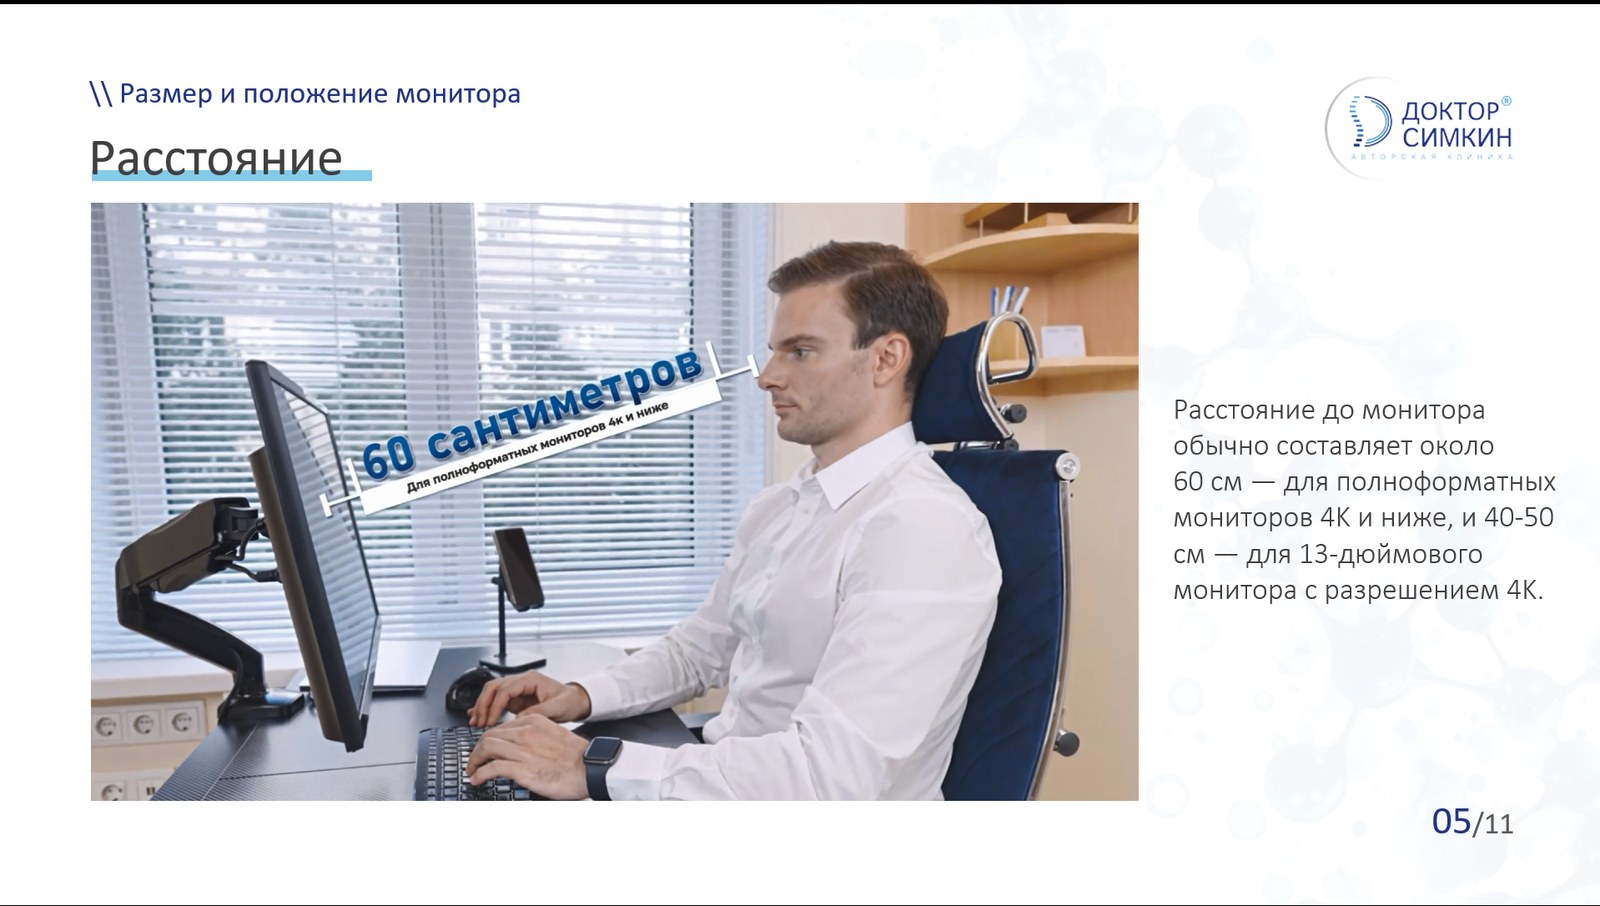
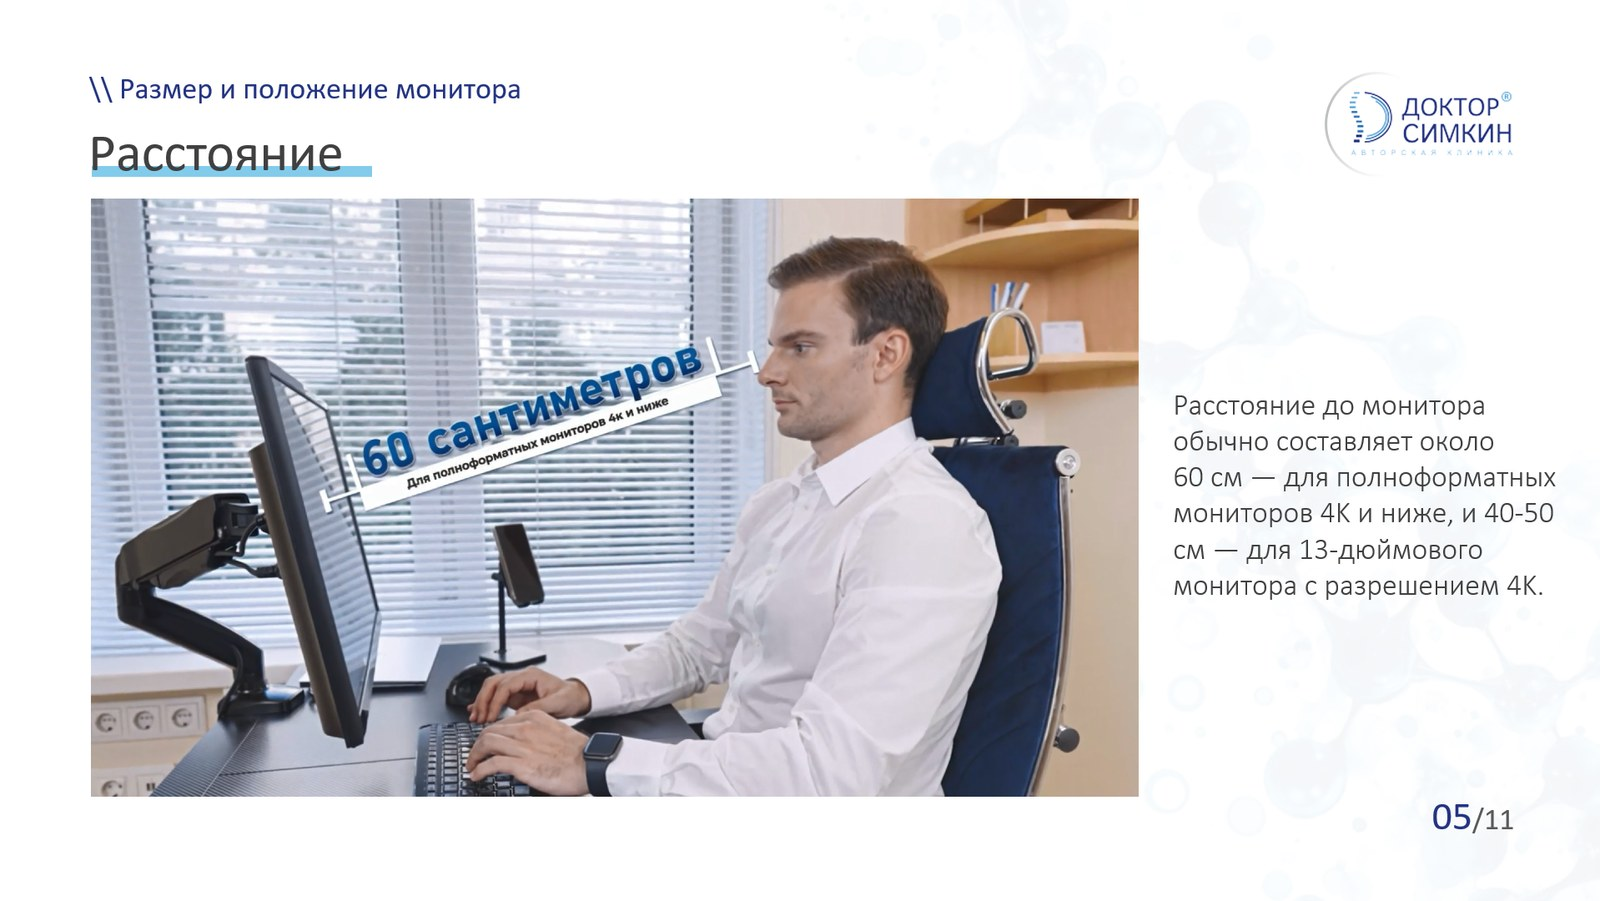
Слайд «Расстояние»: обрезаны чёрные полосы по краям файла

diff --git a/design/course.html b/design/course.html
@@ -348,7 +348,7 @@
         </div>
       </article>
       <article class="dk-mod" data-tab data-rv style="--d:.06s">
-        <div class="dshot dshot--slide"><picture><source srcset="assets/course/slide-03.webp" type="image/webp"><img src="assets/course/slide-03.jpg" alt="Слайд курса «Расстояние»: положение человека относительно монитора" width="1600" height="906" loading="lazy" decoding="async"></picture></div>
+        <div class="dshot dshot--slide"><picture><source srcset="assets/course/slide-03.webp?v=2" type="image/webp"><img src="assets/course/slide-03.jpg?v=2" alt="Слайд курса «Расстояние»: положение человека относительно монитора" width="1600" height="901" loading="lazy" decoding="async"></picture></div>
         <div class="dk-mod__body">
           <span class="dk-mod__n">Раздел 2</span>
           <h3>Рабочее место</h3>
